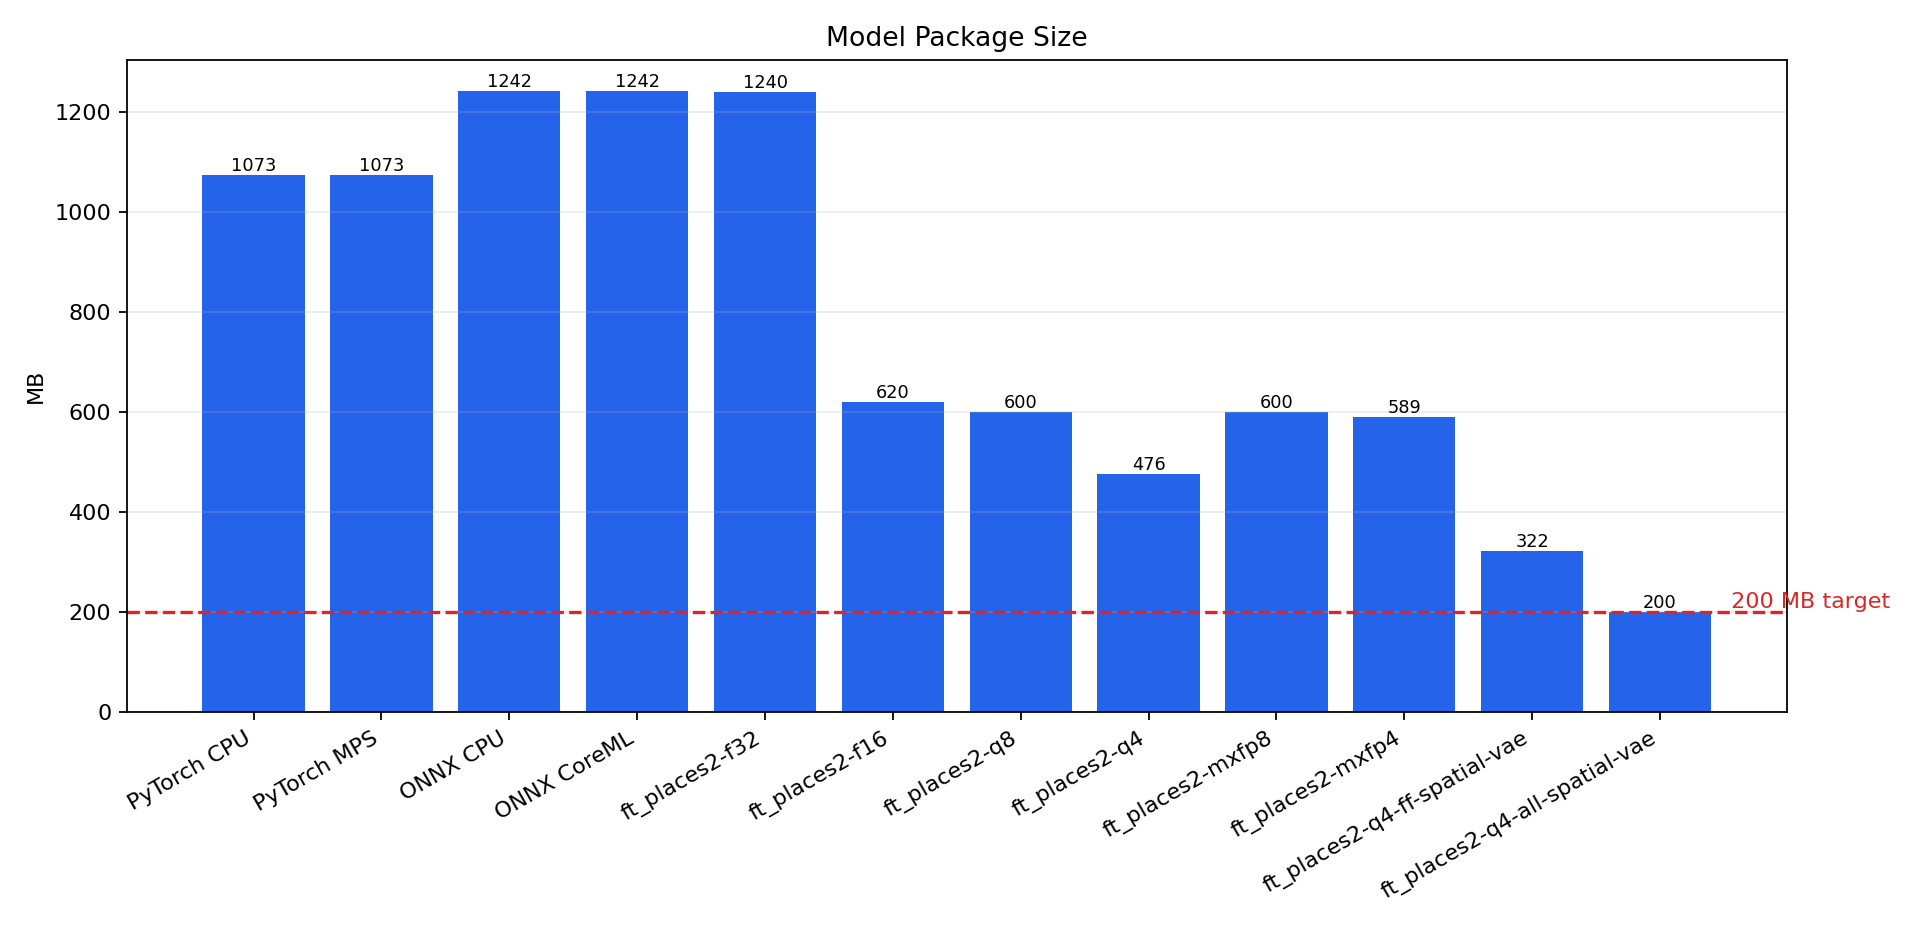
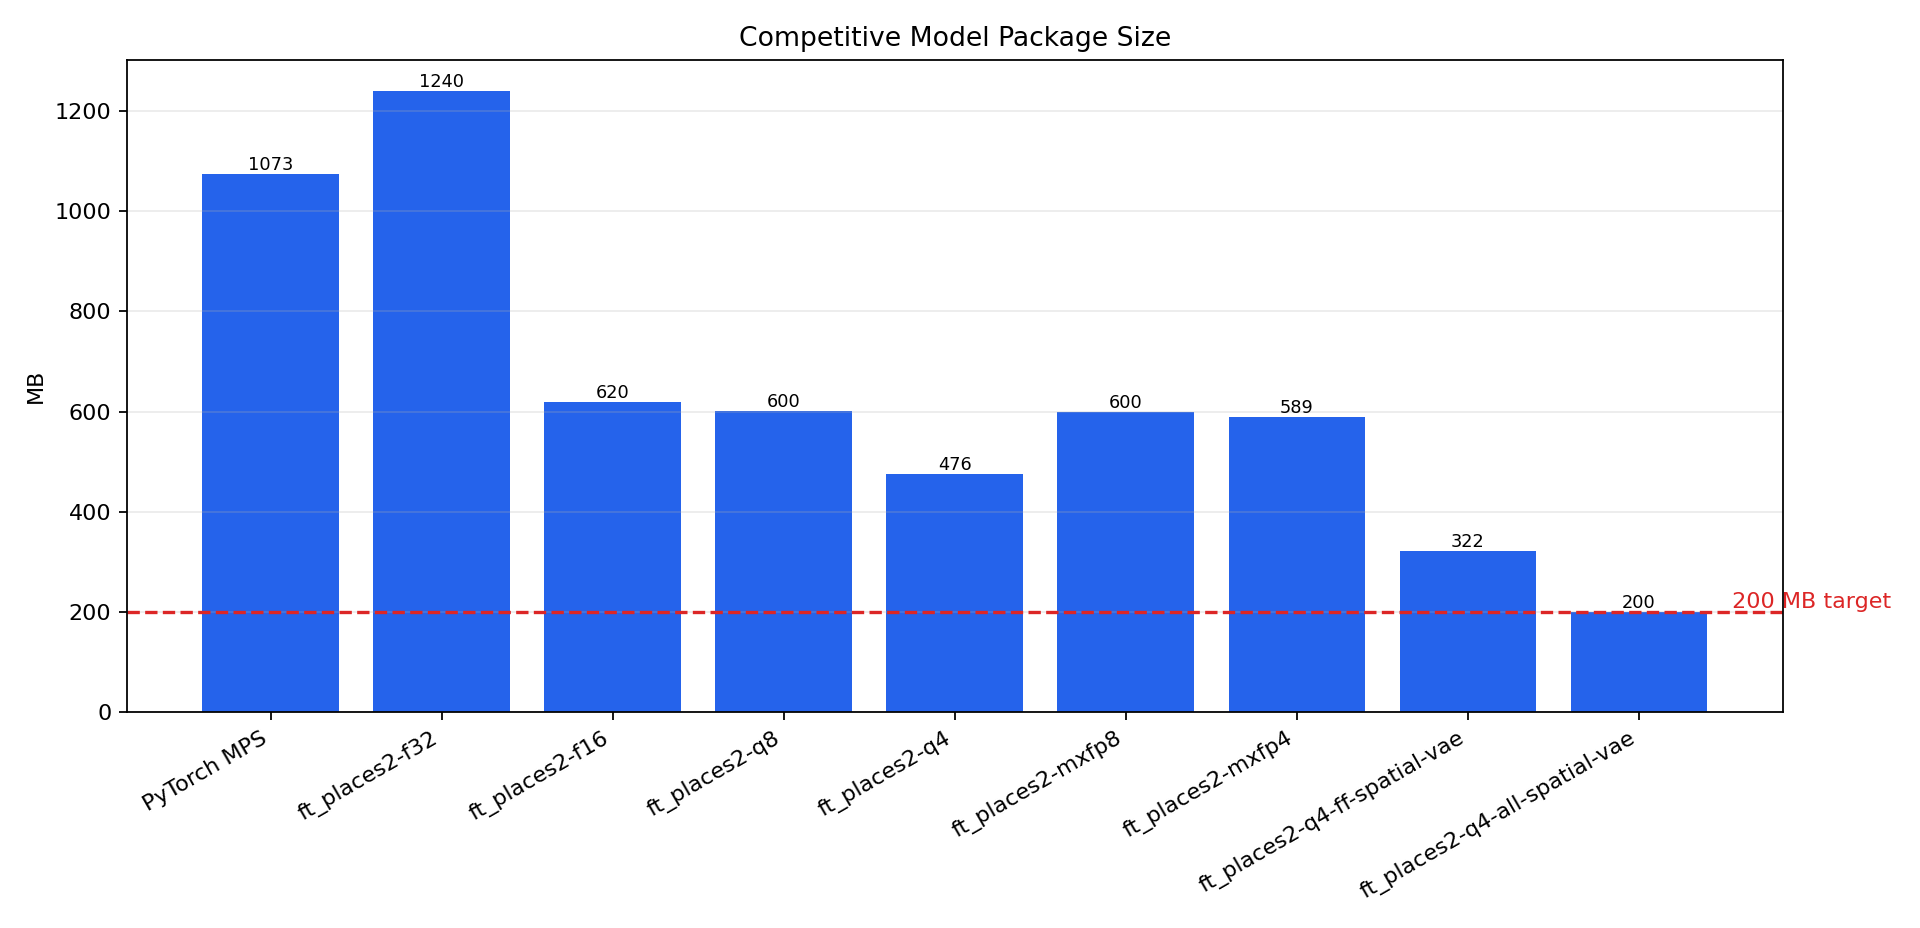
Filter benchmark charts to competitive rows

diff --git a/Scripts/run_cross_runtime_benchmark.py b/Scripts/run_cross_runtime_benchmark.py
@@ -492,16 +492,31 @@ def import_matplotlib():
     return plt
 
 
+def chart_rows_for(args: argparse.Namespace, rows: list[RuntimeRow]) -> list[RuntimeRow]:
+    included_devices = set(getattr(args, "chart_include_devices", []))
+    chart_rows: list[RuntimeRow] = []
+    for row in rows:
+        if included_devices and row.device not in included_devices:
+            continue
+        if row.device in {"cpu", "CPUExecutionProvider"}:
+            continue
+        if row.total_seconds > args.chart_max_total_seconds:
+            continue
+        chart_rows.append(row)
+    return chart_rows or rows
+
+
 def plot_reports(args: argparse.Namespace, rows: list[RuntimeRow]) -> None:
     plt = import_matplotlib()
-    names = [row.name for row in rows]
+    chart_rows = chart_rows_for(args, rows)
+    names = [row.name for row in chart_rows]
 
     def save_grouped(keys: list[str], title: str, ylabel: str, filename: str, log: bool = False) -> None:
-        x = np.arange(len(rows))
+        x = np.arange(len(chart_rows))
         width = 0.8 / len(keys)
         fig, ax = plt.subplots(figsize=(13, 6))
         for index, key in enumerate(keys):
-            ax.bar(x + (index - (len(keys) - 1) / 2) * width, [getattr(row, key) for row in rows], width=width, label=key)
+            ax.bar(x + (index - (len(keys) - 1) / 2) * width, [getattr(row, key) for row in chart_rows], width=width, label=key)
         if log:
             ax.set_yscale("log")
         ax.set_title(title)
@@ -514,19 +529,19 @@ def plot_reports(args: argparse.Namespace, rows: list[RuntimeRow]) -> None:
         fig.savefig(args.output_dir / filename, dpi=160)
         plt.close(fig)
 
-    save_grouped(["max_abs", "mean_abs", "rmse", "p99_abs"], "Fidelity vs Reference", "absolute latent error, log scale", "fidelity_errors.png", log=True)
-    save_grouped(["inference_seconds", "load_seconds", "total_seconds"], "Runtime Performance", "seconds", "performance_timings.png")
+    save_grouped(["max_abs", "mean_abs", "rmse", "p99_abs"], "Competitive Fidelity vs Reference", "absolute latent error, log scale", "fidelity_errors.png", log=True)
+    save_grouped(["inference_seconds", "load_seconds", "total_seconds"], "Competitive Runtime Performance", "seconds", "performance_timings.png")
 
     fig, ax = plt.subplots(figsize=(12, 5.8))
-    bars = ax.bar(names, [row.model_mb for row in rows], color="#2563eb")
+    bars = ax.bar(names, [row.model_mb for row in chart_rows], color="#2563eb")
     ax.axhline(200, color="#dc2626", linestyle="--", linewidth=1.5)
-    ax.text(len(rows) - 0.5, 200, " 200 MB target", color="#dc2626", va="bottom")
-    ax.set_title("Model Package Size")
+    ax.text(len(chart_rows) - 0.5, 200, " 200 MB target", color="#dc2626", va="bottom")
+    ax.set_title("Competitive Model Package Size")
     ax.set_ylabel("MB")
-    ax.set_xticks(np.arange(len(rows)))
+    ax.set_xticks(np.arange(len(chart_rows)))
     ax.set_xticklabels(names, rotation=30, ha="right")
     ax.grid(axis="y", alpha=0.25)
-    for bar, row in zip(bars, rows):
+    for bar, row in zip(bars, chart_rows):
         ax.text(bar.get_x() + bar.get_width() / 2, bar.get_height(), f"{row.model_mb:.0f}", ha="center", va="bottom", fontsize=8)
     fig.tight_layout()
     fig.savefig(args.output_dir / "model_size.png", dpi=160)
@@ -537,7 +552,7 @@ def plot_reports(args: argparse.Namespace, rows: list[RuntimeRow]) -> None:
         ("model_mb", "size_fidelity_tradeoff.png", "model package MB", "Size vs Fidelity"),
     ]:
         fig, ax = plt.subplots(figsize=(8.5, 6.2))
-        for row in rows:
+        for row in chart_rows:
             ax.scatter(getattr(row, x_key), row.rmse, s=max(45, min(320, row.model_mb / 3)), alpha=0.75)
             ax.annotate(row.name.replace("ft_places2-", ""), (getattr(row, x_key), row.rmse), xytext=(5, 5), textcoords="offset points", fontsize=8)
         ax.set_title(title)
@@ -609,12 +624,31 @@ def make_latent_contact_sheet(args: argparse.Namespace, rows: list[RuntimeRow], 
 
 
 def write_summary(args: argparse.Namespace, rows: list[RuntimeRow]) -> None:
+    chart_rows = chart_rows_for(args, rows)
+    chart_names = ", ".join(f"`{row.name}`" for row in chart_rows)
+    omitted_chart_names = ", ".join(f"`{row.name}`" for row in rows if row not in chart_rows)
+    native_onnx_gpu_providers = {
+        "CUDAExecutionProvider",
+        "DmlExecutionProvider",
+        "DirectMLExecutionProvider",
+        "MIGraphXExecutionProvider",
+        "ROCMExecutionProvider",
+        "TensorrtExecutionProvider",
+    }
+    available_onnx_providers = getattr(args, "available_onnx_providers", [])
+    native_onnx_note = (
+        f"- ONNX Runtime providers available in this run: `{', '.join(available_onnx_providers)}`."
+        if available_onnx_providers
+        else "- ONNX Runtime provider availability was not recorded for this report."
+    )
+    if available_onnx_providers and native_onnx_gpu_providers.isdisjoint(available_onnx_providers):
+        native_onnx_note += " No native ONNX GPU provider such as CUDA, DirectML, ROCm, MIGraphX, or TensorRT was available."
     lines = [
         f"# Moebius {args.family} Cross-Runtime Benchmark",
         "",
         f"Reference: first requested PyTorch row. Steps: `{args.steps}`. Seed: `{args.seed}`. Guidance: `{args.guidance}`. Strength: `{args.strength}`.",
         "",
-        "This benchmark compares deterministic latent denoising across PyTorch, ONNX, and MLX. CPU and accelerated PyTorch/ONNX rows are reported separately so performance comparisons can be made between matching device classes. The first requested PyTorch row is used only as the numeric fidelity reference because it is the original implementation; performance comparisons should be read row-by-row by backend/device.",
+        "This benchmark compares deterministic latent denoising across PyTorch, ONNX, and MLX. CPU and slow provider-fallback rows stay in the CSV/table for completeness, but the charts focus on competitive Apple GPU/MLX timings so the useful 12-20 second differences remain visible. The first requested PyTorch row is used only as the numeric fidelity reference because it is the original implementation; performance comparisons should be read row-by-row by backend/device.",
         "",
         "## Results",
         "",
@@ -631,8 +665,11 @@ def write_summary(args: argparse.Namespace, rows: list[RuntimeRow]) -> None:
             "## Interpretation",
             "",
             "- Use `PyTorch MPS` versus `MLX` rows for the Apple GPU-backed speed comparison.",
-            "- `PyTorch CPU` and `ONNX CPU` are included as explicit CPU baselines, not as the headline speed comparison.",
-            "- `ONNX CoreML` uses ONNX Runtime's CoreML provider where available. Some graph nodes can still run on CPU, and provider setup is included in `load s`.",
+            "- `PyTorch CPU`, `ONNX CPU`, and very slow provider fallback rows are included in the table and CSV but omitted from the chart images.",
+            f"- Chart rows: {chart_names}.",
+            f"- Rows omitted from charts: {omitted_chart_names or '`none`'}.",
+            native_onnx_note,
+            "- `ONNX CoreML` uses ONNX Runtime's CoreML provider where available. In this run it was slower than CPU because only part of the graph used CoreML and provider setup is included in `load s`.",
             "- Fidelity metrics are measured against the first requested PyTorch row, which is the original implementation path used as a numeric reference.",
             "",
             "## Charts",
@@ -680,6 +717,8 @@ def write_summary(args: argparse.Namespace, rows: list[RuntimeRow]) -> None:
             "- `--vae-dir`: PixelHacker VAE directory containing `config.json` and `diffusion_pytorch_model.bin`.",
             "- `--torch-devices`: comma-separated PyTorch devices, for example `cpu,mps`.",
             "- `--onnx-providers`: comma-separated ONNX Runtime providers, for example `CPUExecutionProvider,CoreMLExecutionProvider`.",
+            "- `--chart-max-total-seconds`: omit very slow rows from chart images while keeping them in CSV/table output.",
+            "- `--chart-include-devices`: optional comma-separated allow-list for chart devices/providers.",
             "- `--onnx-root`: ONNX directory containing `vae_encoder.onnx` and `unet.onnx`.",
             "- `--mlx-model-root`: directory containing MLX variant folders.",
             "",
@@ -704,6 +743,8 @@ def parse_args() -> argparse.Namespace:
     parser.add_argument("--torch-device", choices=["cpu", "mps", "auto"], help="Deprecated alias for --torch-devices with one device.")
     parser.add_argument("--onnx-providers", default="CPUExecutionProvider,CoreMLExecutionProvider", help="Comma-separated ONNX Runtime providers.")
     parser.add_argument("--onnx-provider", help="Deprecated alias for --onnx-providers with one provider.")
+    parser.add_argument("--chart-max-total-seconds", type=float, default=60.0, help="Keep slow baseline rows in CSV/table output but omit them from chart images. Default: 60.")
+    parser.add_argument("--chart-include-devices", default="", help="Optional comma-separated chart allow-list for row.device values.")
     parser.add_argument("--mlx-variants", default=",".join(MLX_VARIANTS))
     parser.add_argument("--mlx-model-root", type=Path, default=None)
     parser.add_argument("--mlx-download-base", type=Path)
@@ -721,6 +762,7 @@ def parse_args() -> argparse.Namespace:
     args.download_missing = not args.no_download
     args.torch_devices = parse_list(args.torch_device or args.torch_devices)
     args.onnx_providers = parse_list(args.onnx_provider or args.onnx_providers)
+    args.chart_include_devices = parse_list(args.chart_include_devices)
     args.mlx_variants = parse_list(args.mlx_variants)
     args.pytorch_code_root = args.pytorch_code_root or Path(os.environ.get("MOEBIUS_PYTORCH_CODE_ROOT", args.artifact_dir / "code" / "Moebius"))
     args.pytorch_weights_root = args.pytorch_weights_root or Path(os.environ.get("MOEBIUS_PYTORCH_WEIGHTS_ROOT", args.artifact_dir / "models" / "Moebius"))
@@ -780,6 +822,7 @@ def main() -> None:
     assert reference is not None
     assert reference_masked is not None
 
+    args.available_onnx_providers = require_module("onnxruntime").get_available_providers()
     onnx_providers = available_onnx_providers(args.onnx_providers)
     if not onnx_providers:
         print("No requested ONNX providers are available; skipping ONNX rows.", file=sys.stderr)
@@ -820,6 +863,10 @@ def main() -> None:
                 "strength": args.strength,
                 "torch_devices": torch_devices,
                 "onnx_providers": onnx_providers,
+                "available_onnx_providers": args.available_onnx_providers,
+                "chart_max_total_seconds": args.chart_max_total_seconds,
+                "chart_include_devices": args.chart_include_devices,
+                "chart_rows": [row.name for row in chart_rows_for(args, rows)],
                 "reference": reference_name,
                 "mlx_variants": args.mlx_variants,
             },

diff --git a/Docs/BenchmarkReports/ft_places2-cross-runtime-steps20/summary.md b/Docs/BenchmarkReports/ft_places2-cross-runtime-steps20/summary.md
@@ -2,7 +2,7 @@
 
 Reference: first requested PyTorch row. Steps: `20`. Seed: `0`. Guidance: `2.0`. Strength: `0.99`.
 
-This benchmark compares deterministic latent denoising across PyTorch, ONNX, and MLX. CPU and accelerated PyTorch/ONNX rows are reported separately so performance comparisons can be made between matching device classes. The first requested PyTorch row is used only as the numeric fidelity reference because it is the original implementation; performance comparisons should be read row-by-row by backend/device.
+This benchmark compares deterministic latent denoising across PyTorch, ONNX, and MLX. CPU and slow provider-fallback rows stay in the CSV/table for completeness, but the charts focus on competitive Apple GPU/MLX timings so the useful 12-20 second differences remain visible. The first requested PyTorch row is used only as the numeric fidelity reference because it is the original implementation; performance comparisons should be read row-by-row by backend/device.
 
 ## Results
 
@@ -24,8 +24,11 @@ This benchmark compares deterministic latent denoising across PyTorch, ONNX, and
 ## Interpretation
 
 - Use `PyTorch MPS` versus `MLX` rows for the Apple GPU-backed speed comparison.
-- `PyTorch CPU` and `ONNX CPU` are included as explicit CPU baselines, not as the headline speed comparison.
-- `ONNX CoreML` uses ONNX Runtime's CoreML provider where available. Some graph nodes can still run on CPU, and provider setup is included in `load s`.
+- `PyTorch CPU`, `ONNX CPU`, and very slow provider fallback rows are included in the table and CSV but omitted from the chart images.
+- Chart rows: `PyTorch MPS`, `ft_places2-f32`, `ft_places2-f16`, `ft_places2-q8`, `ft_places2-q4`, `ft_places2-mxfp8`, `ft_places2-mxfp4`, `ft_places2-q4-ff-spatial-vae`, `ft_places2-q4-all-spatial-vae`.
+- Rows omitted from charts: `PyTorch CPU`, `ONNX CPU`, `ONNX CoreML`.
+- ONNX Runtime providers available in this run: `CoreMLExecutionProvider, AzureExecutionProvider, CPUExecutionProvider`. No native ONNX GPU provider such as CUDA, DirectML, ROCm, MIGraphX, or TensorRT was available.
+- `ONNX CoreML` uses ONNX Runtime's CoreML provider where available. In this run it was slower than CPU because only part of the graph used CoreML and provider setup is included in `load s`.
 - Fidelity metrics are measured against the first requested PyTorch row, which is the original implementation path used as a numeric reference.
 
 ## Charts
@@ -73,5 +76,7 @@ Useful path overrides:
 - `--vae-dir`: PixelHacker VAE directory containing `config.json` and `diffusion_pytorch_model.bin`.
 - `--torch-devices`: comma-separated PyTorch devices, for example `cpu,mps`.
 - `--onnx-providers`: comma-separated ONNX Runtime providers, for example `CPUExecutionProvider,CoreMLExecutionProvider`.
+- `--chart-max-total-seconds`: omit very slow rows from chart images while keeping them in CSV/table output.
+- `--chart-include-devices`: optional comma-separated allow-list for chart devices/providers.
 - `--onnx-root`: ONNX directory containing `vae_encoder.onnx` and `unet.onnx`.
 - `--mlx-model-root`: directory containing MLX variant folders.

diff --git a/Scripts/README.md b/Scripts/README.md
@@ -24,6 +24,8 @@ It writes:
 - `latent_contact_sheet.png`.
 - `reference_fixture/` and `latents/` raw tensors used to calculate the metrics.
 
+The CSV and report table include every requested backend/device row. Chart images omit CPU baselines and rows above `--chart-max-total-seconds` by default, so slow diagnostic rows do not flatten the useful GPU/MLX comparisons.
+
 By default, missing public artifacts are downloaded into `BenchmarkArtifacts/cross-runtime`, which is ignored by Git. You can use existing local artifacts instead:
 
 ```bash
@@ -39,6 +41,8 @@ Useful options:
 
 - `--torch-devices cpu,mps`: comma-separated PyTorch devices. Unavailable devices are skipped.
 - `--onnx-providers CPUExecutionProvider,CoreMLExecutionProvider`: comma-separated ONNX Runtime providers. Unavailable providers are skipped.
+- `--chart-max-total-seconds 60`: keep slower rows in the CSV/table but omit them from chart images.
+- `--chart-include-devices MLX,mps`: optional comma-separated chart allow-list for row device/provider names.
 - `--mlx-variants ft_places2-f32,ft_places2-f16,...`: comma-separated MLX variants.
 - `--no-download`: fail instead of downloading missing public artifacts.
 
